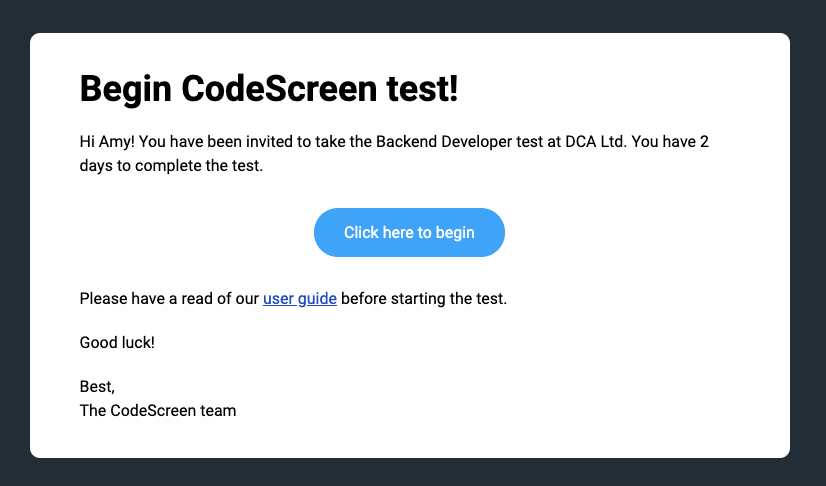
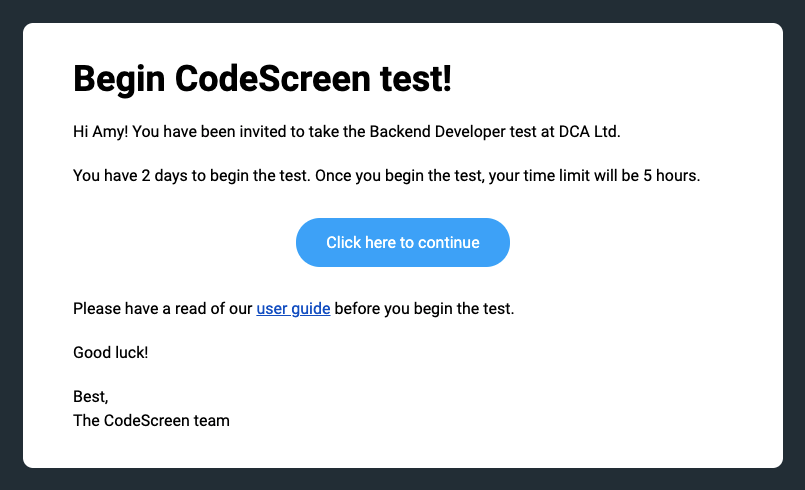
Updated beginEmail.png image

diff --git a/docs/beginTest.md b/docs/beginTest.md
@@ -12,7 +12,7 @@ To kick things off, you will receive an email similar to to the following:
 
 <br>
 
-Once you click the `Click here to begin` blue button, you will be brought to the initial sign up screen. **Note** your 
+Once you click the `Click here to continue` blue button, you will be brought to the initial sign up screen. **Note** your 
 timer does not start at this point.
 
 <br>
